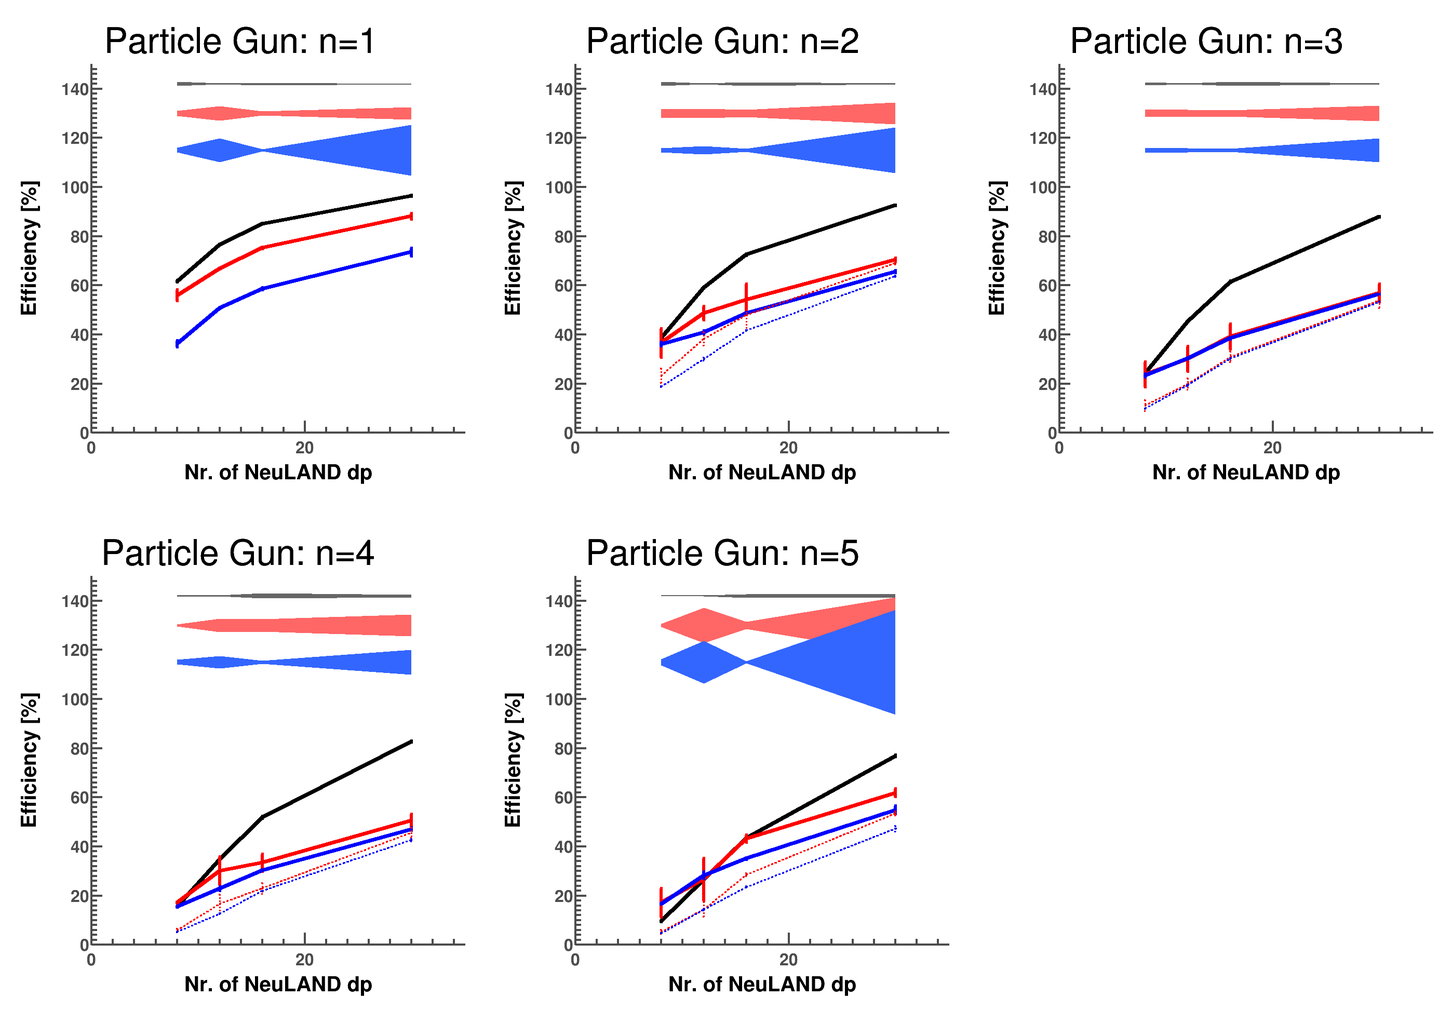
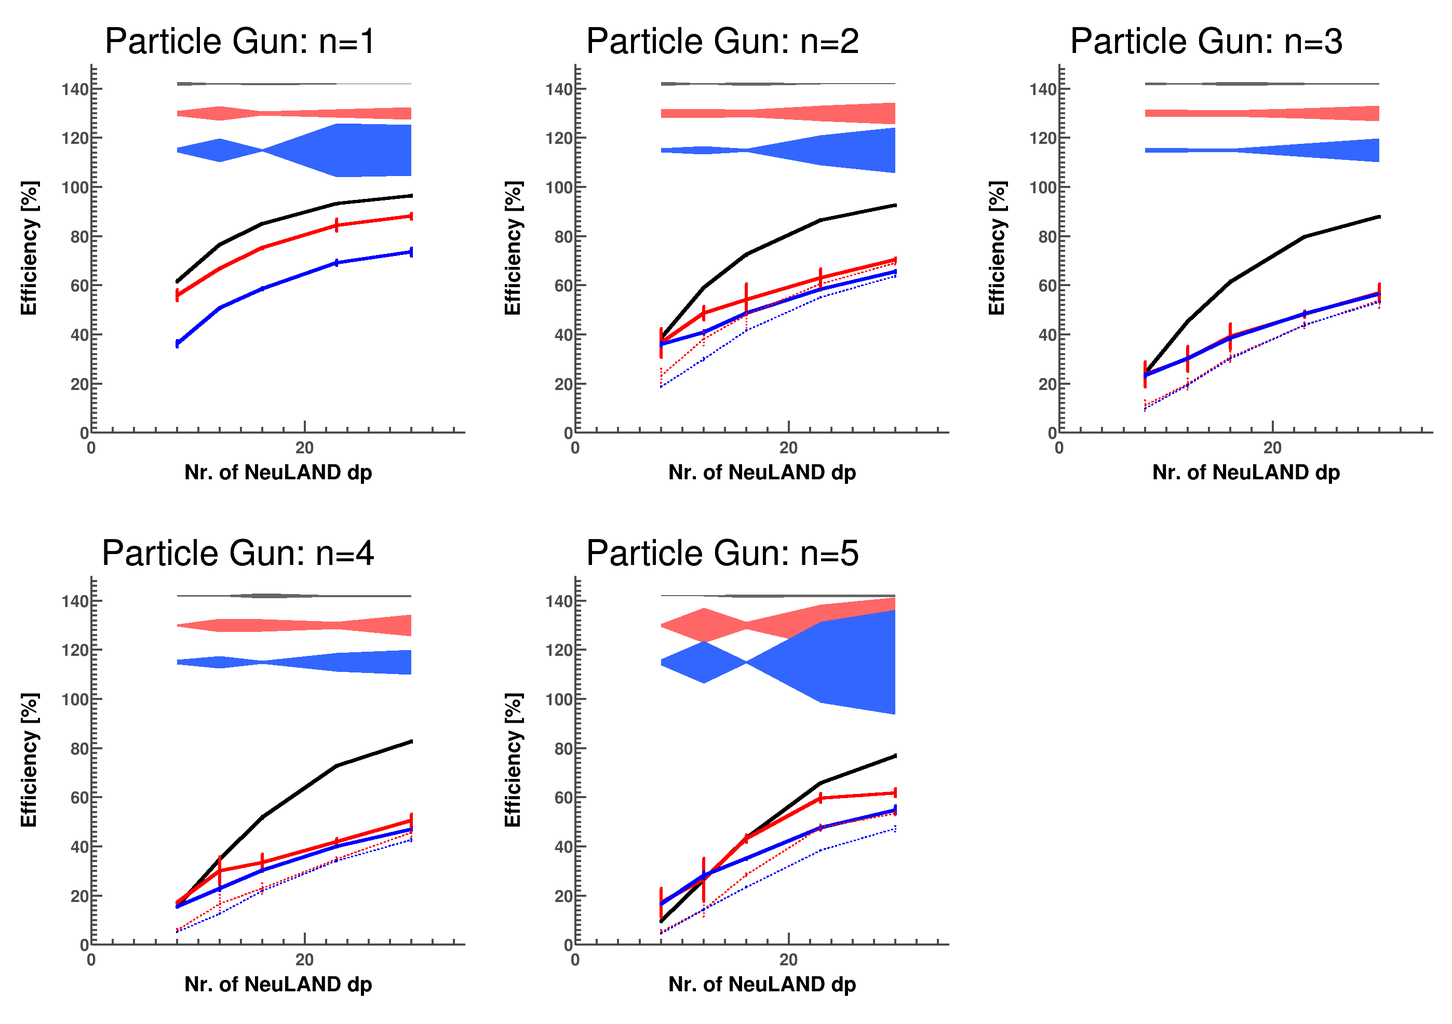
Begin with 23 dp numbers

diff --git a/R3BRoot/DNN/Presentation/MakeMultAllGraphs_600MeV.cpp b/R3BRoot/DNN/Presentation/MakeMultAllGraphs_600MeV.cpp
@@ -87,12 +87,12 @@ void MakeMultAllGraphs_600MeV()
     
     // ------------------------------------------------------------
     
-    // Then, add the 30dp scenario:
-    DNN_1n->AddYpoint(3,88.5,87.3,85.4,90.6,87.9); DNN_Res_1n->AddYpoint(3,88.2,87.0,85.1,90.3,87.5); TDR_1n->AddYpoint(3,74.6,76.2,61.9,82.8,74.8); TDR_Res_1n->AddYpoint(3,74.4,76.0,61.7,82.6,74.6); Perfect_1n->AddYpoint(3,96.5,96.4,96.3,96.4,96.4);
-    DNN_2n->AddYpoint(3,71.6,71.0,65.2,73.9,70.9); DNN_Res_2n->AddYpoint(3,70.4,69.8,63.6,73.0,69.6); TDR_2n->AddYpoint(3,67.9,67.5,54.3,72.9,67.2); TDR_Res_2n->AddYpoint(3,66.4,66.1,51.7,71.8,65.5); Perfect_2n->AddYpoint(3,92.7,92.7,92.3,92.6,92.4);
-    DNN_3n->AddYpoint(3,58.7,62.3,52.5,58.3,57.9); DNN_Res_3n->AddYpoint(3,55.9,59.2,48.7,56.3,55.0); TDR_3n->AddYpoint(3,59.6,59.4,49.7,57.2,59.3); TDR_Res_3n->AddYpoint(3,56.7,56.6,45.2,55.4,56.2); Perfect_3n->AddYpoint(3,88.1,88.1,87.6,88.1,87.6);
-    DNN_4n->AddYpoint(3,55.3,52.8,50.9,46.6,49.3); DNN_Res_4n->AddYpoint(3,50.2,48.1,44.3,43.6,44.4); TDR_4n->AddYpoint(3,50.6,51.1,45.9,40.6,50.9); TDR_Res_4n->AddYpoint(3,46.5,47.0,39.6,38.2,46.5); Perfect_4n->AddYpoint(3,82.9,83.0,82.3,83.2,82.2);
-    DNN_5n->AddYpoint(3,62.6,64.2,71.8,48.8,64.1); DNN_Res_5n->AddYpoint(3,54.9,55.8,60.6,43.5,55.1); TDR_5n->AddYpoint(3,55.7,57.3,75.2,32.7,55.7); TDR_Res_5n->AddYpoint(3,48.9,50.0,63.0,29.1,48.3); Perfect_5n->AddYpoint(3,77.4,77.1,76.2,77.5,76.3);
+    // Then, add the 23dp scenario:
+    DNN_1n->AddYpoint(3,85.5,83.1,82.7,86.2,83.2); DNN_Res_1n->AddYpoint(3,84.9,82.5,82.0,85.6,82.6); TDR_1n->AddYpoint(3,68.7,69.8,57.3,79.2,71.3); TDR_Res_1n->AddYpoint(3,68.4,69.5,56.9,78.8,70.9); Perfect_1n->AddYpoint(3,93.3,93.2,93.0,93.3,93.1);
+    DNN_2n->AddYpoint(3,64.4,68.0,59.9,66.2,61.9); DNN_Res_2n->AddYpoint(3,62.2,65.2,57.1,64.2,59.1); TDR_2n->AddYpoint(3,60.4,60.5,51.1,63.2,58.5); TDR_Res_2n->AddYpoint(3,57.3,57.5,46.4,61.6,55.8); Perfect_2n->AddYpoint(3,86.7,86.6,86.3,86.6,86.3);
+    DNN_3n->AddYpoint(3,49.8,51.0,45.6,49.9,47.7); DNN_Res_3n->AddYpoint(3,45.7,47.0,40.2,46.6,42.7); TDR_3n->AddYpoint(3,51.3,50.7,45.8,47.7,48.9); TDR_Res_3n->AddYpoint(3,47.0,46.5,39.0,45.2,44.4); Perfect_3n->AddYpoint(3,80.1,79.9,79.5,79.9,79.3);
+    DNN_4n->AddYpoint(3,43.9,42.6,41.2,41.7,40.9); DNN_Res_4n->AddYpoint(3,37.2,36.5,32.6,36.6,33.5); TDR_4n->AddYpoint(3,42.2,42.0,41.2,34.8,41.4); TDR_Res_4n->AddYpoint(3,37.0,36.7,32.8,31.7,35.6); Perfect_4n->AddYpoint(3,73.2,73.0,72.6,73.0,72.5);
+    DNN_5n->AddYpoint(3,59.0,57.2,66.9,50.2,62.8); DNN_Res_5n->AddYpoint(3,47.9,46.5,51.9,41.5,49.6); TDR_5n->AddYpoint(3,46.7,47.1,63.9,31.0,48.7); TDR_Res_5n->AddYpoint(3,38.7,38.9,49.8,26.2,39.6); Perfect_5n->AddYpoint(3,66.2,66.1,65.3,65.9,65.5);
     
     DNN_1n->AddYerror(3,SqrtN,SqrtN,SqrtN,SqrtN,SqrtN); DNN_Res_1n->AddYerror(3,SqrtN,SqrtN,SqrtN,SqrtN,SqrtN); TDR_1n->AddYerror(3,SqrtN,SqrtN,SqrtN,SqrtN,SqrtN); TDR_Res_1n->AddYerror(3,SqrtN,SqrtN,SqrtN,SqrtN,SqrtN); Perfect_1n->AddYerror(3,SqrtN,SqrtN,SqrtN,SqrtN,SqrtN);
     DNN_2n->AddYerror(3,SqrtN,SqrtN,SqrtN,SqrtN,SqrtN); DNN_Res_2n->AddYerror(3,SqrtN,SqrtN,SqrtN,SqrtN,SqrtN); TDR_2n->AddYerror(3,SqrtN,SqrtN,SqrtN,SqrtN,SqrtN); TDR_Res_2n->AddYerror(3,SqrtN,SqrtN,SqrtN,SqrtN,SqrtN); Perfect_2n->AddYerror(3,SqrtN,SqrtN,SqrtN,SqrtN,SqrtN);
@@ -100,12 +100,33 @@ void MakeMultAllGraphs_600MeV()
     DNN_4n->AddYerror(3,SqrtN,SqrtN,SqrtN,SqrtN,SqrtN); DNN_Res_4n->AddYerror(3,SqrtN,SqrtN,SqrtN,SqrtN,SqrtN); TDR_4n->AddYerror(3,SqrtN,SqrtN,SqrtN,SqrtN,SqrtN); TDR_Res_4n->AddYerror(3,SqrtN,SqrtN,SqrtN,SqrtN,SqrtN); Perfect_4n->AddYerror(3,SqrtN,SqrtN,SqrtN,SqrtN,SqrtN);
     DNN_5n->AddYerror(3,SqrtN,SqrtN,SqrtN,SqrtN,SqrtN); DNN_Res_5n->AddYerror(3,SqrtN,SqrtN,SqrtN,SqrtN,SqrtN); TDR_5n->AddYerror(3,SqrtN,SqrtN,SqrtN,SqrtN,SqrtN); TDR_Res_5n->AddYerror(3,SqrtN,SqrtN,SqrtN,SqrtN,SqrtN); Perfect_5n->AddYerror(3,SqrtN,SqrtN,SqrtN,SqrtN,SqrtN);
     
-    DNN_1n->AddXpoint(3,30.0); DNN_Res_1n->AddXpoint(3,30.0); TDR_1n->AddXpoint(3,30.0); TDR_Res_1n->AddXpoint(3,30.0); Perfect_1n->AddXpoint(3,30.0);
-    DNN_2n->AddXpoint(3,30.0); DNN_Res_2n->AddXpoint(3,30.0); TDR_2n->AddXpoint(3,30.0); TDR_Res_2n->AddXpoint(3,30.0); Perfect_2n->AddXpoint(3,30.0);
-    DNN_3n->AddXpoint(3,30.0); DNN_Res_3n->AddXpoint(3,30.0); TDR_3n->AddXpoint(3,30.0); TDR_Res_3n->AddXpoint(3,30.0); Perfect_3n->AddXpoint(3,30.0);
-    DNN_4n->AddXpoint(3,30.0); DNN_Res_4n->AddXpoint(3,30.0); TDR_4n->AddXpoint(3,30.0); TDR_Res_4n->AddXpoint(3,30.0); Perfect_4n->AddXpoint(3,30.0);
-    DNN_5n->AddXpoint(3,30.0); DNN_Res_5n->AddXpoint(3,30.0); TDR_5n->AddXpoint(3,30.0); TDR_Res_5n->AddXpoint(3,30.0); Perfect_5n->AddXpoint(3,30.0);
+    DNN_1n->AddXpoint(4,23.0); DNN_Res_1n->AddXpoint(4,23.0); TDR_1n->AddXpoint(4,23.0); TDR_Res_1n->AddXpoint(4,23.0); Perfect_1n->AddXpoint(4,23.0);
+    DNN_2n->AddXpoint(4,23.0); DNN_Res_2n->AddXpoint(4,23.0); TDR_2n->AddXpoint(4,23.0); TDR_Res_2n->AddXpoint(4,23.0); Perfect_2n->AddXpoint(4,23.0);
+    DNN_3n->AddXpoint(4,23.0); DNN_Res_3n->AddXpoint(4,23.0); TDR_3n->AddXpoint(4,23.0); TDR_Res_3n->AddXpoint(4,23.0); Perfect_3n->AddXpoint(4,23.0);
+    DNN_4n->AddXpoint(4,23.0); DNN_Res_4n->AddXpoint(4,23.0); TDR_4n->AddXpoint(4,23.0); TDR_Res_4n->AddXpoint(4,23.0); Perfect_4n->AddXpoint(4,23.0);
+    DNN_5n->AddXpoint(4,23.0); DNN_Res_5n->AddXpoint(4,23.0); TDR_5n->AddXpoint(4,23.0); TDR_Res_5n->AddXpoint(4,23.0); Perfect_5n->AddXpoint(4,23.0);
     
+    // ------------------------------------------------------------
+    
+    // Then, add the 30dp scenario:
+    DNN_1n->AddYpoint(4,88.5,87.3,85.4,90.6,87.9); DNN_Res_1n->AddYpoint(4,88.2,87.0,85.1,90.3,87.5); TDR_1n->AddYpoint(4,74.6,76.2,61.9,82.8,74.8); TDR_Res_1n->AddYpoint(4,74.4,76.0,61.7,82.6,74.6); Perfect_1n->AddYpoint(4,96.5,96.4,96.3,96.4,96.4);
+    DNN_2n->AddYpoint(4,71.6,71.0,65.2,73.9,70.9); DNN_Res_2n->AddYpoint(4,70.4,69.8,63.6,73.0,69.6); TDR_2n->AddYpoint(4,67.9,67.5,54.3,72.9,67.2); TDR_Res_2n->AddYpoint(4,66.4,66.1,51.7,71.8,65.5); Perfect_2n->AddYpoint(4,92.7,92.7,92.3,92.6,92.4);
+    DNN_3n->AddYpoint(4,58.7,62.3,52.5,58.3,57.9); DNN_Res_3n->AddYpoint(4,55.9,59.2,48.7,56.3,55.0); TDR_3n->AddYpoint(4,59.6,59.4,49.7,57.2,59.3); TDR_Res_3n->AddYpoint(4,56.7,56.6,45.2,55.4,56.2); Perfect_3n->AddYpoint(4,88.1,88.1,87.6,88.1,87.6);
+    DNN_4n->AddYpoint(4,55.3,52.8,50.9,46.6,49.3); DNN_Res_4n->AddYpoint(4,50.2,48.1,44.3,43.6,44.4); TDR_4n->AddYpoint(4,50.6,51.1,45.9,40.6,50.9); TDR_Res_4n->AddYpoint(4,46.5,47.0,39.6,38.2,46.5); Perfect_4n->AddYpoint(4,82.9,83.0,82.3,83.2,82.2);
+    DNN_5n->AddYpoint(4,62.6,64.2,71.8,48.8,64.1); DNN_Res_5n->AddYpoint(4,54.9,55.8,60.6,43.5,55.1); TDR_5n->AddYpoint(4,55.7,57.3,75.2,32.7,55.7); TDR_Res_5n->AddYpoint(4,48.9,50.0,63.0,29.1,48.3); Perfect_5n->AddYpoint(4,77.4,77.1,76.2,77.5,76.3);
+    
+    DNN_1n->AddYerror(4,SqrtN,SqrtN,SqrtN,SqrtN,SqrtN); DNN_Res_1n->AddYerror(4,SqrtN,SqrtN,SqrtN,SqrtN,SqrtN); TDR_1n->AddYerror(4,SqrtN,SqrtN,SqrtN,SqrtN,SqrtN); TDR_Res_1n->AddYerror(4,SqrtN,SqrtN,SqrtN,SqrtN,SqrtN); Perfect_1n->AddYerror(4,SqrtN,SqrtN,SqrtN,SqrtN,SqrtN);
+    DNN_2n->AddYerror(4,SqrtN,SqrtN,SqrtN,SqrtN,SqrtN); DNN_Res_2n->AddYerror(4,SqrtN,SqrtN,SqrtN,SqrtN,SqrtN); TDR_2n->AddYerror(4,SqrtN,SqrtN,SqrtN,SqrtN,SqrtN); TDR_Res_2n->AddYerror(4,SqrtN,SqrtN,SqrtN,SqrtN,SqrtN); Perfect_2n->AddYerror(4,SqrtN,SqrtN,SqrtN,SqrtN,SqrtN);
+    DNN_3n->AddYerror(4,SqrtN,SqrtN,SqrtN,SqrtN,SqrtN); DNN_Res_3n->AddYerror(4,SqrtN,SqrtN,SqrtN,SqrtN,SqrtN); TDR_3n->AddYerror(4,SqrtN,SqrtN,SqrtN,SqrtN,SqrtN); TDR_Res_3n->AddYerror(4,SqrtN,SqrtN,SqrtN,SqrtN,SqrtN); Perfect_3n->AddYerror(4,SqrtN,SqrtN,SqrtN,SqrtN,SqrtN);
+    DNN_4n->AddYerror(4,SqrtN,SqrtN,SqrtN,SqrtN,SqrtN); DNN_Res_4n->AddYerror(4,SqrtN,SqrtN,SqrtN,SqrtN,SqrtN); TDR_4n->AddYerror(4,SqrtN,SqrtN,SqrtN,SqrtN,SqrtN); TDR_Res_4n->AddYerror(4,SqrtN,SqrtN,SqrtN,SqrtN,SqrtN); Perfect_4n->AddYerror(4,SqrtN,SqrtN,SqrtN,SqrtN,SqrtN);
+    DNN_5n->AddYerror(4,SqrtN,SqrtN,SqrtN,SqrtN,SqrtN); DNN_Res_5n->AddYerror(4,SqrtN,SqrtN,SqrtN,SqrtN,SqrtN); TDR_5n->AddYerror(4,SqrtN,SqrtN,SqrtN,SqrtN,SqrtN); TDR_Res_5n->AddYerror(4,SqrtN,SqrtN,SqrtN,SqrtN,SqrtN); Perfect_5n->AddYerror(4,SqrtN,SqrtN,SqrtN,SqrtN,SqrtN);
+    
+    DNN_1n->AddXpoint(4,30.0); DNN_Res_1n->AddXpoint(4,30.0); TDR_1n->AddXpoint(4,30.0); TDR_Res_1n->AddXpoint(4,30.0); Perfect_1n->AddXpoint(4,30.0);
+    DNN_2n->AddXpoint(4,30.0); DNN_Res_2n->AddXpoint(4,30.0); TDR_2n->AddXpoint(4,30.0); TDR_Res_2n->AddXpoint(4,30.0); Perfect_2n->AddXpoint(4,30.0);
+    DNN_3n->AddXpoint(4,30.0); DNN_Res_3n->AddXpoint(4,30.0); TDR_3n->AddXpoint(4,30.0); TDR_Res_3n->AddXpoint(4,30.0); Perfect_3n->AddXpoint(4,30.0);
+    DNN_4n->AddXpoint(4,30.0); DNN_Res_4n->AddXpoint(4,30.0); TDR_4n->AddXpoint(4,30.0); TDR_Res_4n->AddXpoint(4,30.0); Perfect_4n->AddXpoint(4,30.0);
+    DNN_5n->AddXpoint(4,30.0); DNN_Res_5n->AddXpoint(4,30.0); TDR_5n->AddXpoint(4,30.0); TDR_Res_5n->AddXpoint(4,30.0); Perfect_5n->AddXpoint(4,30.0);
+  
     // ------------------------------------------------------------
     
     // Next, start building graphs:

diff --git a/R3BRoot/DNN/Presentation/MakeMultAllGraphs_200MeV.cpp b/R3BRoot/DNN/Presentation/MakeMultAllGraphs_200MeV.cpp
@@ -87,7 +87,7 @@ void MakeMultAllGraphs_200MeV()
     
     // ------------------------------------------------------------
     
-    // Then, add the 30dp scenario:
+    // Then, add the 23dp scenario:
     DNN_1n->AddYpoint(3,88.8,87.4,87.4,86.8,85.1); DNN_Res_1n->AddYpoint(3,88.6,87.3,87.2,86.7,85.0); TDR_1n->AddYpoint(3,82.8,82.0,81.2,82.6,81.2); TDR_Res_1n->AddYpoint(3,82.8,81.9,81.1,82.5,81.1); Perfect_1n->AddYpoint(3,95.2,95.1,93.4,95.0,93.5);
     DNN_2n->AddYpoint(3,70.5,72.1,64.7,68.8,63.8); DNN_Res_2n->AddYpoint(3,69.2,70.7,63.1,67.4,61.8); TDR_2n->AddYpoint(3,58.4,66.2,53.4,67.6,62.3); TDR_Res_2n->AddYpoint(3,57.2,64.9,51.8,66.3,60.6); Perfect_2n->AddYpoint(3,90.4,90.5,87.6,90.4,87.5);
     DNN_3n->AddYpoint(3,60.2,60.6,53.4,59.1,54.1); DNN_Res_3n->AddYpoint(3,57.1,57.5,49.7,55.6,49.6); TDR_3n->AddYpoint(3,65.1,57.2,60.3,57.9,52.6); TDR_Res_3n->AddYpoint(3,61.1,54.2,54.8,55.1,48.9); Perfect_3n->AddYpoint(3,85.6,85.6,81.2,85.6,81.2);
@@ -100,12 +100,33 @@ void MakeMultAllGraphs_200MeV()
     DNN_4n->AddYerror(3,SqrtN,SqrtN,SqrtN,SqrtN,SqrtN); DNN_Res_4n->AddYerror(3,SqrtN,SqrtN,SqrtN,SqrtN,SqrtN); TDR_4n->AddYerror(3,SqrtN,SqrtN,SqrtN,SqrtN,SqrtN); TDR_Res_4n->AddYerror(3,SqrtN,SqrtN,SqrtN,SqrtN,SqrtN); Perfect_4n->AddYerror(3,SqrtN,SqrtN,SqrtN,SqrtN,SqrtN);
     DNN_5n->AddYerror(3,SqrtN,SqrtN,SqrtN,SqrtN,SqrtN); DNN_Res_5n->AddYerror(3,SqrtN,SqrtN,SqrtN,SqrtN,SqrtN); TDR_5n->AddYerror(3,SqrtN,SqrtN,SqrtN,SqrtN,SqrtN); TDR_Res_5n->AddYerror(3,SqrtN,SqrtN,SqrtN,SqrtN,SqrtN); Perfect_5n->AddYerror(3,SqrtN,SqrtN,SqrtN,SqrtN,SqrtN);
     
-    DNN_1n->AddXpoint(3,30.0); DNN_Res_1n->AddXpoint(3,30.0); TDR_1n->AddXpoint(3,30.0); TDR_Res_1n->AddXpoint(3,30.0); Perfect_1n->AddXpoint(3,30.0);
-    DNN_2n->AddXpoint(3,30.0); DNN_Res_2n->AddXpoint(3,30.0); TDR_2n->AddXpoint(3,30.0); TDR_Res_2n->AddXpoint(3,30.0); Perfect_2n->AddXpoint(3,30.0);
-    DNN_3n->AddXpoint(3,30.0); DNN_Res_3n->AddXpoint(3,30.0); TDR_3n->AddXpoint(3,30.0); TDR_Res_3n->AddXpoint(3,30.0); Perfect_3n->AddXpoint(3,30.0);
-    DNN_4n->AddXpoint(3,30.0); DNN_Res_4n->AddXpoint(3,30.0); TDR_4n->AddXpoint(3,30.0); TDR_Res_4n->AddXpoint(3,30.0); Perfect_4n->AddXpoint(3,30.0);
-    DNN_5n->AddXpoint(3,30.0); DNN_Res_5n->AddXpoint(3,30.0); TDR_5n->AddXpoint(3,30.0); TDR_Res_5n->AddXpoint(3,30.0); Perfect_5n->AddXpoint(3,30.0);
+    DNN_1n->AddXpoint(3,23.0); DNN_Res_1n->AddXpoint(3,23.0); TDR_1n->AddXpoint(3,23.0); TDR_Res_1n->AddXpoint(3,23.0); Perfect_1n->AddXpoint(3,23.0);
+    DNN_2n->AddXpoint(3,23.0); DNN_Res_2n->AddXpoint(3,23.0); TDR_2n->AddXpoint(3,23.0); TDR_Res_2n->AddXpoint(3,23.0); Perfect_2n->AddXpoint(3,23.0);
+    DNN_3n->AddXpoint(3,23.0); DNN_Res_3n->AddXpoint(3,23.0); TDR_3n->AddXpoint(3,23.0); TDR_Res_3n->AddXpoint(3,23.0); Perfect_3n->AddXpoint(3,23.0);
+    DNN_4n->AddXpoint(3,23.0); DNN_Res_4n->AddXpoint(3,23.0); TDR_4n->AddXpoint(3,23.0); TDR_Res_4n->AddXpoint(3,23.0); Perfect_4n->AddXpoint(3,23.0);
+    DNN_5n->AddXpoint(3,23.0); DNN_Res_5n->AddXpoint(3,23.0); TDR_5n->AddXpoint(3,23.0); TDR_Res_5n->AddXpoint(3,23.0); Perfect_5n->AddXpoint(3,23.0);
+   
+    // ------------------------------------------------------------
     
+    // Then, add the 30dp scenario:
+    DNN_1n->AddYpoint(4,88.8,87.4,87.4,86.8,85.1); DNN_Res_1n->AddYpoint(4,88.6,87.3,87.2,86.7,85.0); TDR_1n->AddYpoint(4,82.8,82.0,81.2,82.6,81.2); TDR_Res_1n->AddYpoint(4,82.8,81.9,81.1,82.5,81.1); Perfect_1n->AddYpoint(4,95.2,95.1,93.4,95.0,93.5);
+    DNN_2n->AddYpoint(4,70.5,72.1,64.7,68.8,63.8); DNN_Res_2n->AddYpoint(4,69.2,70.7,63.1,67.4,61.8); TDR_2n->AddYpoint(4,58.4,66.2,53.4,67.6,62.3); TDR_Res_2n->AddYpoint(4,57.2,64.9,51.8,66.3,60.6); Perfect_2n->AddYpoint(4,90.4,90.5,87.6,90.4,87.5);
+    DNN_3n->AddYpoint(4,60.2,60.6,53.4,59.1,54.1); DNN_Res_3n->AddYpoint(4,57.1,57.5,49.7,55.6,49.6); TDR_3n->AddYpoint(4,65.1,57.2,60.3,57.9,52.6); TDR_Res_3n->AddYpoint(4,61.1,54.2,54.8,55.1,48.9); Perfect_3n->AddYpoint(4,85.6,85.6,81.2,85.6,81.2);
+    DNN_4n->AddYpoint(4,55.2,52.6,47.8,49.7,46.1); DNN_Res_4n->AddYpoint(4,50.3,47.8,42.2,44.6,39.6); TDR_4n->AddYpoint(4,55.4,57.7,50.0,55.0,49.5); TDR_Res_4n->AddYpoint(4,51.3,53.0,44.5,50.8,43.9); Perfect_4n->AddYpoint(4,80.4,80.3,74.8,80.3,74.6);
+    DNN_5n->AddYpoint(4,63.3,66.2,49.1,69.3,60.9); DNN_Res_5n->AddYpoint(4,56.2,58.4,41.8,60.3,50.3); TDR_5n->AddYpoint(4,50.7,54.1,45.6,54.2,48.1); TDR_Res_5n->AddYpoint(4,45.9,48.8,39.1,48.8,41.1); Perfect_5n->AddYpoint(4,75.1,75.1,67.9,75.1,68.0);
+    
+    DNN_1n->AddYerror(4,SqrtN,SqrtN,SqrtN,SqrtN,SqrtN); DNN_Res_1n->AddYerror(4,SqrtN,SqrtN,SqrtN,SqrtN,SqrtN); TDR_1n->AddYerror(4,SqrtN,SqrtN,SqrtN,SqrtN,SqrtN); TDR_Res_1n->AddYerror(4,SqrtN,SqrtN,SqrtN,SqrtN,SqrtN); Perfect_1n->AddYerror(4,SqrtN,SqrtN,SqrtN,SqrtN,SqrtN);
+    DNN_2n->AddYerror(4,SqrtN,SqrtN,SqrtN,SqrtN,SqrtN); DNN_Res_2n->AddYerror(4,SqrtN,SqrtN,SqrtN,SqrtN,SqrtN); TDR_2n->AddYerror(4,SqrtN,SqrtN,SqrtN,SqrtN,SqrtN); TDR_Res_2n->AddYerror(4,SqrtN,SqrtN,SqrtN,SqrtN,SqrtN); Perfect_2n->AddYerror(4,SqrtN,SqrtN,SqrtN,SqrtN,SqrtN);
+    DNN_3n->AddYerror(4,SqrtN,SqrtN,SqrtN,SqrtN,SqrtN); DNN_Res_3n->AddYerror(4,SqrtN,SqrtN,SqrtN,SqrtN,SqrtN); TDR_3n->AddYerror(4,SqrtN,SqrtN,SqrtN,SqrtN,SqrtN); TDR_Res_3n->AddYerror(4,SqrtN,SqrtN,SqrtN,SqrtN,SqrtN); Perfect_3n->AddYerror(4,SqrtN,SqrtN,SqrtN,SqrtN,SqrtN);
+    DNN_4n->AddYerror(4,SqrtN,SqrtN,SqrtN,SqrtN,SqrtN); DNN_Res_4n->AddYerror(4,SqrtN,SqrtN,SqrtN,SqrtN,SqrtN); TDR_4n->AddYerror(4,SqrtN,SqrtN,SqrtN,SqrtN,SqrtN); TDR_Res_4n->AddYerror(4,SqrtN,SqrtN,SqrtN,SqrtN,SqrtN); Perfect_4n->AddYerror(4,SqrtN,SqrtN,SqrtN,SqrtN,SqrtN);
+    DNN_5n->AddYerror(4,SqrtN,SqrtN,SqrtN,SqrtN,SqrtN); DNN_Res_5n->AddYerror(4,SqrtN,SqrtN,SqrtN,SqrtN,SqrtN); TDR_5n->AddYerror(4,SqrtN,SqrtN,SqrtN,SqrtN,SqrtN); TDR_Res_5n->AddYerror(4,SqrtN,SqrtN,SqrtN,SqrtN,SqrtN); Perfect_5n->AddYerror(4,SqrtN,SqrtN,SqrtN,SqrtN,SqrtN);
+    
+    DNN_1n->AddXpoint(4,30.0); DNN_Res_1n->AddXpoint(4,30.0); TDR_1n->AddXpoint(4,30.0); TDR_Res_1n->AddXpoint(4,30.0); Perfect_1n->AddXpoint(4,30.0);
+    DNN_2n->AddXpoint(4,30.0); DNN_Res_2n->AddXpoint(4,30.0); TDR_2n->AddXpoint(4,30.0); TDR_Res_2n->AddXpoint(4,30.0); Perfect_2n->AddXpoint(4,30.0);
+    DNN_3n->AddXpoint(4,30.0); DNN_Res_3n->AddXpoint(4,30.0); TDR_3n->AddXpoint(4,30.0); TDR_Res_3n->AddXpoint(4,30.0); Perfect_3n->AddXpoint(4,30.0);
+    DNN_4n->AddXpoint(4,30.0); DNN_Res_4n->AddXpoint(4,30.0); TDR_4n->AddXpoint(4,30.0); TDR_Res_4n->AddXpoint(4,30.0); Perfect_4n->AddXpoint(4,30.0);
+    DNN_5n->AddXpoint(4,30.0); DNN_Res_5n->AddXpoint(4,30.0); TDR_5n->AddXpoint(4,30.0); TDR_Res_5n->AddXpoint(4,30.0); Perfect_5n->AddXpoint(4,30.0);
+   
     // ------------------------------------------------------------
     
     // Next, start building graphs:

diff --git a/R3BRoot/DNN/Presentation/MakeMultAllGraphs_1000MeV.cpp b/R3BRoot/DNN/Presentation/MakeMultAllGraphs_1000MeV.cpp
@@ -87,7 +87,7 @@ void MakeMultAllGraphs_1000MeV()
     
     // ------------------------------------------------------------
     
-    // Then, add the 30dp scenario:
+    // Then, add the 23dp scenario:
     DNN_1n->AddYpoint(3,89.5,88.9,87.6,91.8,89.7); DNN_Res_1n->AddYpoint(3,89.2,88.6,87.2,91.4,89.3); TDR_1n->AddYpoint(3,67.1,75.4,53.4,80.9,78.0); TDR_Res_1n->AddYpoint(3,66.9,75.2,53.2,80.8,77.8); Perfect_1n->AddYpoint(3,97.2,97.2,97.3,97.3,97.2);
     DNN_2n->AddYpoint(3,70.9,71.9,67.1,74.1,73.9); DNN_Res_2n->AddYpoint(3,69.8,70.7,65.9,73.2,72.8); TDR_2n->AddYpoint(3,64.1,65.2,49.7,66.5,65.2); TDR_Res_2n->AddYpoint(3,62.4,64.0,47.4,65.7,64.2); Perfect_2n->AddYpoint(3,94.1,94.0,93.9,94.0,94.0);
     DNN_3n->AddYpoint(3,64.0,59.0,61.2,60.2,63.7); DNN_Res_3n->AddYpoint(3,61.0,56.3,57.6,58.0,60.7); TDR_3n->AddYpoint(3,57.4,57.4,46.8,52.4,56.7); TDR_Res_3n->AddYpoint(3,54.4,54.7,42.7,50.9,53.9); Perfect_3n->AddYpoint(3,89.7,89.9,89.5,89.9,89.6);
@@ -100,11 +100,32 @@ void MakeMultAllGraphs_1000MeV()
     DNN_4n->AddYerror(3,SqrtN,SqrtN,SqrtN,SqrtN,SqrtN); DNN_Res_4n->AddYerror(3,SqrtN,SqrtN,SqrtN,SqrtN,SqrtN); TDR_4n->AddYerror(3,SqrtN,SqrtN,SqrtN,SqrtN,SqrtN); TDR_Res_4n->AddYerror(3,SqrtN,SqrtN,SqrtN,SqrtN,SqrtN); Perfect_4n->AddYerror(3,SqrtN,SqrtN,SqrtN,SqrtN,SqrtN);
     DNN_5n->AddYerror(3,SqrtN,SqrtN,SqrtN,SqrtN,SqrtN); DNN_Res_5n->AddYerror(3,SqrtN,SqrtN,SqrtN,SqrtN,SqrtN); TDR_5n->AddYerror(3,SqrtN,SqrtN,SqrtN,SqrtN,SqrtN); TDR_Res_5n->AddYerror(3,SqrtN,SqrtN,SqrtN,SqrtN,SqrtN); Perfect_5n->AddYerror(3,SqrtN,SqrtN,SqrtN,SqrtN,SqrtN);
     
-    DNN_1n->AddXpoint(3,30.0); DNN_Res_1n->AddXpoint(3,30.0); TDR_1n->AddXpoint(3,30.0); TDR_Res_1n->AddXpoint(3,30.0); Perfect_1n->AddXpoint(3,30.0);
-    DNN_2n->AddXpoint(3,30.0); DNN_Res_2n->AddXpoint(3,30.0); TDR_2n->AddXpoint(3,30.0); TDR_Res_2n->AddXpoint(3,30.0); Perfect_2n->AddXpoint(3,30.0);
-    DNN_3n->AddXpoint(3,30.0); DNN_Res_3n->AddXpoint(3,30.0); TDR_3n->AddXpoint(3,30.0); TDR_Res_3n->AddXpoint(3,30.0); Perfect_3n->AddXpoint(3,30.0);
-    DNN_4n->AddXpoint(3,30.0); DNN_Res_4n->AddXpoint(3,30.0); TDR_4n->AddXpoint(3,30.0); TDR_Res_4n->AddXpoint(3,30.0); Perfect_4n->AddXpoint(3,30.0);
-    DNN_5n->AddXpoint(3,30.0); DNN_Res_5n->AddXpoint(3,30.0); TDR_5n->AddXpoint(3,30.0); TDR_Res_5n->AddXpoint(3,30.0); Perfect_5n->AddXpoint(3,30.0);
+    DNN_1n->AddXpoint(3,23.0); DNN_Res_1n->AddXpoint(3,23.0); TDR_1n->AddXpoint(3,23.0); TDR_Res_1n->AddXpoint(3,23.0); Perfect_1n->AddXpoint(3,23.0);
+    DNN_2n->AddXpoint(3,23.0); DNN_Res_2n->AddXpoint(3,23.0); TDR_2n->AddXpoint(3,23.0); TDR_Res_2n->AddXpoint(3,23.0); Perfect_2n->AddXpoint(3,23.0);
+    DNN_3n->AddXpoint(3,23.0); DNN_Res_3n->AddXpoint(3,23.0); TDR_3n->AddXpoint(3,23.0); TDR_Res_3n->AddXpoint(3,23.0); Perfect_3n->AddXpoint(3,23.0);
+    DNN_4n->AddXpoint(3,23.0); DNN_Res_4n->AddXpoint(3,23.0); TDR_4n->AddXpoint(3,23.0); TDR_Res_4n->AddXpoint(3,23.0); Perfect_4n->AddXpoint(3,23.0);
+    DNN_5n->AddXpoint(3,23.0); DNN_Res_5n->AddXpoint(3,23.0); TDR_5n->AddXpoint(3,23.0); TDR_Res_5n->AddXpoint(3,23.0); Perfect_5n->AddXpoint(3,23.0);
+    
+    // ------------------------------------------------------------
+    
+    // Then, add the 30dp scenario:
+    DNN_1n->AddYpoint(4,89.5,88.9,87.6,91.8,89.7); DNN_Res_1n->AddYpoint(4,89.2,88.6,87.2,91.4,89.3); TDR_1n->AddYpoint(4,67.1,75.4,53.4,80.9,78.0); TDR_Res_1n->AddYpoint(4,66.9,75.2,53.2,80.8,77.8); Perfect_1n->AddYpoint(4,97.2,97.2,97.3,97.3,97.2);
+    DNN_2n->AddYpoint(4,70.9,71.9,67.1,74.1,73.9); DNN_Res_2n->AddYpoint(4,69.8,70.7,65.9,73.2,72.8); TDR_2n->AddYpoint(4,64.1,65.2,49.7,66.5,65.2); TDR_Res_2n->AddYpoint(4,62.4,64.0,47.4,65.7,64.2); Perfect_2n->AddYpoint(4,94.1,94.0,93.9,94.0,94.0);
+    DNN_3n->AddYpoint(4,64.0,59.0,61.2,60.2,63.7); DNN_Res_3n->AddYpoint(4,61.0,56.3,57.6,58.0,60.7); TDR_3n->AddYpoint(4,57.4,57.4,46.8,52.4,56.7); TDR_Res_3n->AddYpoint(4,54.4,54.7,42.7,50.9,53.9); Perfect_3n->AddYpoint(4,89.7,89.9,89.5,89.9,89.6);
+    DNN_4n->AddYpoint(4,52.3,53.4,50.5,48.9,54.7); DNN_Res_4n->AddYpoint(4,47.7,48.2,44.9,45.2,49.7); TDR_4n->AddYpoint(4,48.8,48.6,43.3,40.8,49.2); TDR_Res_4n->AddYpoint(4,44.3,44.2,37.3,37.6,44.4); Perfect_4n->AddYpoint(4,84.7,84.4,84.2,84.5,84.1);
+    DNN_5n->AddYpoint(4,66.1,69.1,75.6,49.2,65.7); DNN_Res_5n->AddYpoint(4,56.6,58.8,63.4,42.7,55.9); TDR_5n->AddYpoint(4,58.0,62.3,81.0,43.4,68.8); TDR_Res_5n->AddYpoint(4,49.4,53.0,66.9,37.1,57.9); Perfect_5n->AddYpoint(4,78.2,78.2,77.7,78.2,77.8);
+    
+    DNN_1n->AddYerror(4,SqrtN,SqrtN,SqrtN,SqrtN,SqrtN); DNN_Res_1n->AddYerror(4,SqrtN,SqrtN,SqrtN,SqrtN,SqrtN); TDR_1n->AddYerror(4,SqrtN,SqrtN,SqrtN,SqrtN,SqrtN); TDR_Res_1n->AddYerror(4,SqrtN,SqrtN,SqrtN,SqrtN,SqrtN); Perfect_1n->AddYerror(4,SqrtN,SqrtN,SqrtN,SqrtN,SqrtN);
+    DNN_2n->AddYerror(4,SqrtN,SqrtN,SqrtN,SqrtN,SqrtN); DNN_Res_2n->AddYerror(4,SqrtN,SqrtN,SqrtN,SqrtN,SqrtN); TDR_2n->AddYerror(4,SqrtN,SqrtN,SqrtN,SqrtN,SqrtN); TDR_Res_2n->AddYerror(4,SqrtN,SqrtN,SqrtN,SqrtN,SqrtN); Perfect_2n->AddYerror(4,SqrtN,SqrtN,SqrtN,SqrtN,SqrtN);
+    DNN_3n->AddYerror(4,SqrtN,SqrtN,SqrtN,SqrtN,SqrtN); DNN_Res_3n->AddYerror(4,SqrtN,SqrtN,SqrtN,SqrtN,SqrtN); TDR_3n->AddYerror(4,SqrtN,SqrtN,SqrtN,SqrtN,SqrtN); TDR_Res_3n->AddYerror(4,SqrtN,SqrtN,SqrtN,SqrtN,SqrtN); Perfect_3n->AddYerror(4,SqrtN,SqrtN,SqrtN,SqrtN,SqrtN);
+    DNN_4n->AddYerror(4,SqrtN,SqrtN,SqrtN,SqrtN,SqrtN); DNN_Res_4n->AddYerror(4,SqrtN,SqrtN,SqrtN,SqrtN,SqrtN); TDR_4n->AddYerror(4,SqrtN,SqrtN,SqrtN,SqrtN,SqrtN); TDR_Res_4n->AddYerror(4,SqrtN,SqrtN,SqrtN,SqrtN,SqrtN); Perfect_4n->AddYerror(4,SqrtN,SqrtN,SqrtN,SqrtN,SqrtN);
+    DNN_5n->AddYerror(4,SqrtN,SqrtN,SqrtN,SqrtN,SqrtN); DNN_Res_5n->AddYerror(4,SqrtN,SqrtN,SqrtN,SqrtN,SqrtN); TDR_5n->AddYerror(4,SqrtN,SqrtN,SqrtN,SqrtN,SqrtN); TDR_Res_5n->AddYerror(4,SqrtN,SqrtN,SqrtN,SqrtN,SqrtN); Perfect_5n->AddYerror(4,SqrtN,SqrtN,SqrtN,SqrtN,SqrtN);
+    
+    DNN_1n->AddXpoint(4,30.0); DNN_Res_1n->AddXpoint(4,30.0); TDR_1n->AddXpoint(4,30.0); TDR_Res_1n->AddXpoint(4,30.0); Perfect_1n->AddXpoint(4,30.0);
+    DNN_2n->AddXpoint(4,30.0); DNN_Res_2n->AddXpoint(4,30.0); TDR_2n->AddXpoint(4,30.0); TDR_Res_2n->AddXpoint(4,30.0); Perfect_2n->AddXpoint(4,30.0);
+    DNN_3n->AddXpoint(4,30.0); DNN_Res_3n->AddXpoint(4,30.0); TDR_3n->AddXpoint(4,30.0); TDR_Res_3n->AddXpoint(4,30.0); Perfect_3n->AddXpoint(4,30.0);
+    DNN_4n->AddXpoint(4,30.0); DNN_Res_4n->AddXpoint(4,30.0); TDR_4n->AddXpoint(4,30.0); TDR_Res_4n->AddXpoint(4,30.0); Perfect_4n->AddXpoint(4,30.0);
+    DNN_5n->AddXpoint(4,30.0); DNN_Res_5n->AddXpoint(4,30.0); TDR_5n->AddXpoint(4,30.0); TDR_Res_5n->AddXpoint(4,30.0); Perfect_5n->AddXpoint(4,30.0);
     
     // ------------------------------------------------------------
     

diff --git a/R3BRoot/DNN/Presentation/Make4nInvHist.cpp b/R3BRoot/DNN/Presentation/Make4nInvHist.cpp
@@ -3,7 +3,7 @@
 void Make4nInvHist()
 {
     // NOTE: Makes a 4n Invariant Mass spectrum plot.
-    TString Case = "12dp_200MeV";
+    TString Case = "23dp_600MeV";
     TString ThePath = "/media/christiaan/DATA/Christiaan/ENSAR/Scenario_Summary/";
     Bool_t PlotScoring = kFALSE;
     Bool_t PlotDDNMult = kFALSE;
@@ -12,6 +12,9 @@ void Make4nInvHist()
     if (Case=="30dp_1000MeV") {ScaleDef[0] = 0.847; ScaleDef[1] = 0.844; ScaleDef[2] = 0.842; ScaleDef[3] = 0.845; ScaleDef[4] = 0.841;}
     if (Case=="30dp_600MeV")  {ScaleDef[0] = 0.829; ScaleDef[1] = 0.830; ScaleDef[2] = 0.823; ScaleDef[3] = 0.832; ScaleDef[4] = 0.822;}
     if (Case=="30dp_200MeV")  {ScaleDef[0] = 0.804; ScaleDef[1] = 0.803; ScaleDef[2] = 0.748; ScaleDef[3] = 0.803; ScaleDef[4] = 0.746;}
+    // if (Case=="23dp_1000MeV") {ScaleDef[0] = 0.847; ScaleDef[1] = 0.844; ScaleDef[2] = 0.842; ScaleDef[3] = 0.845; ScaleDef[4] = 0.841;}
+    if (Case=="23dp_600MeV")  {ScaleDef[0] = 0.732; ScaleDef[1] = 0.730; ScaleDef[2] = 0.726; ScaleDef[3] = 0.730; ScaleDef[4] = 0.725;}
+    // if (Case=="23dp_200MeV")  {ScaleDef[0] = 0.804; ScaleDef[1] = 0.803; ScaleDef[2] = 0.748; ScaleDef[3] = 0.803; ScaleDef[4] = 0.746;}
     if (Case=="16dp_1000MeV") {ScaleDef[0] = 0.587; ScaleDef[1] = 0.588; ScaleDef[2] = 0.580; ScaleDef[3] = 0.586; ScaleDef[4] = 0.583;}
     if (Case=="16dp_600MeV")  {ScaleDef[0] = 0.525; ScaleDef[1] = 0.529; ScaleDef[2] = 0.510; ScaleDef[3] = 0.529; ScaleDef[4] = 0.509;}
     if (Case=="16dp_200MeV")  {ScaleDef[0] = 0.461; ScaleDef[1] = 0.461; ScaleDef[2] = 0.389; ScaleDef[3] = 0.462; ScaleDef[4] = 0.389;}

diff --git a/R3BRoot/DNN/Experiment/TetraNeutron/ProcessHists.cpp b/R3BRoot/DNN/Experiment/TetraNeutron/ProcessHists.cpp
@@ -26,7 +26,7 @@ void ProcessHists()
     Bool_t PlotScoringPlus = kFALSE;
     
     // Define OutputPath:
-    TString OutputPath = "/media/christiaan/DATA/DNN_Data/NeuLAND_23dp_600MeV/INCLXX/DNN_Validation/";
+    TString OutputPath = "/media/christiaan/DATA/DNN_Data/NeuLAND_23dp_1000MeV/INCLXX/DNN_Validation/";
     if (OutputPath.Contains("/DNN_Training/")==kTRUE) {OutputPath.ReplaceAll("/DNN_Training/","");}
     if (OutputPath.Contains("/DNN_Validation/")==kTRUE) {OutputPath.ReplaceAll("/DNN_Validation/","");}
     if (OutputPath.Contains("/DNN_Experiment/")==kTRUE) {OutputPath.ReplaceAll("/DNN_Experiment/","");}
